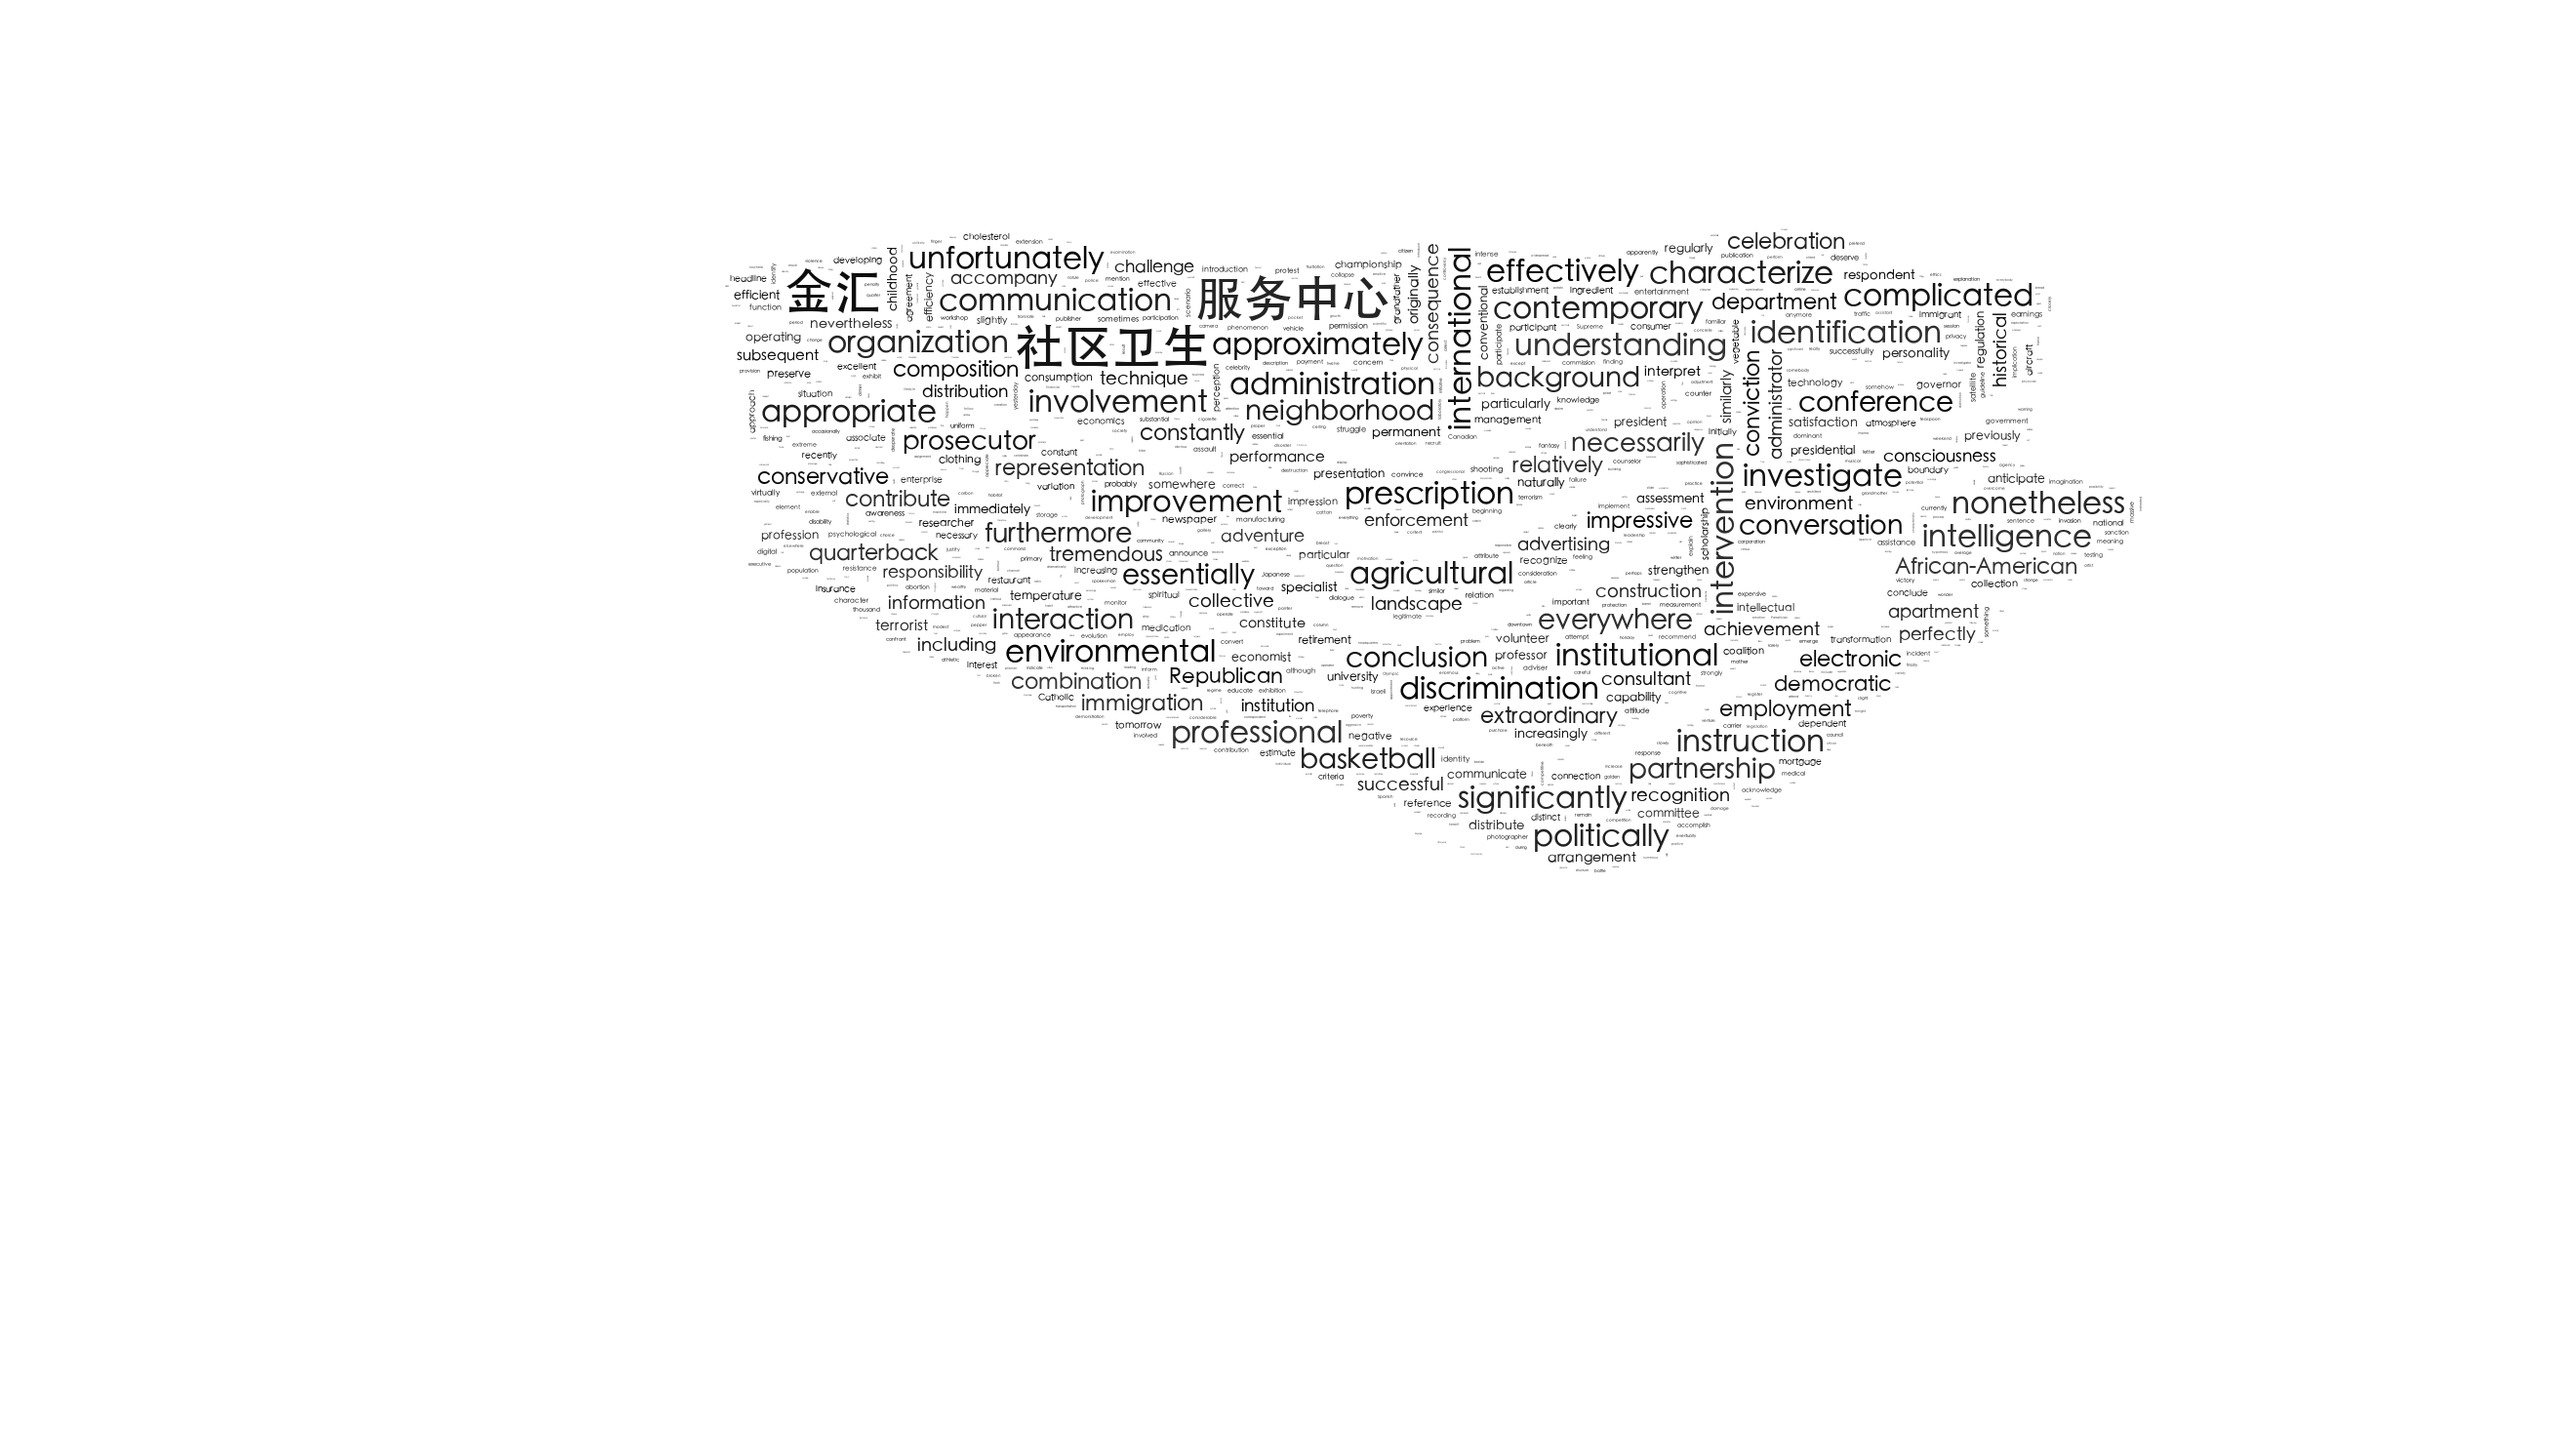
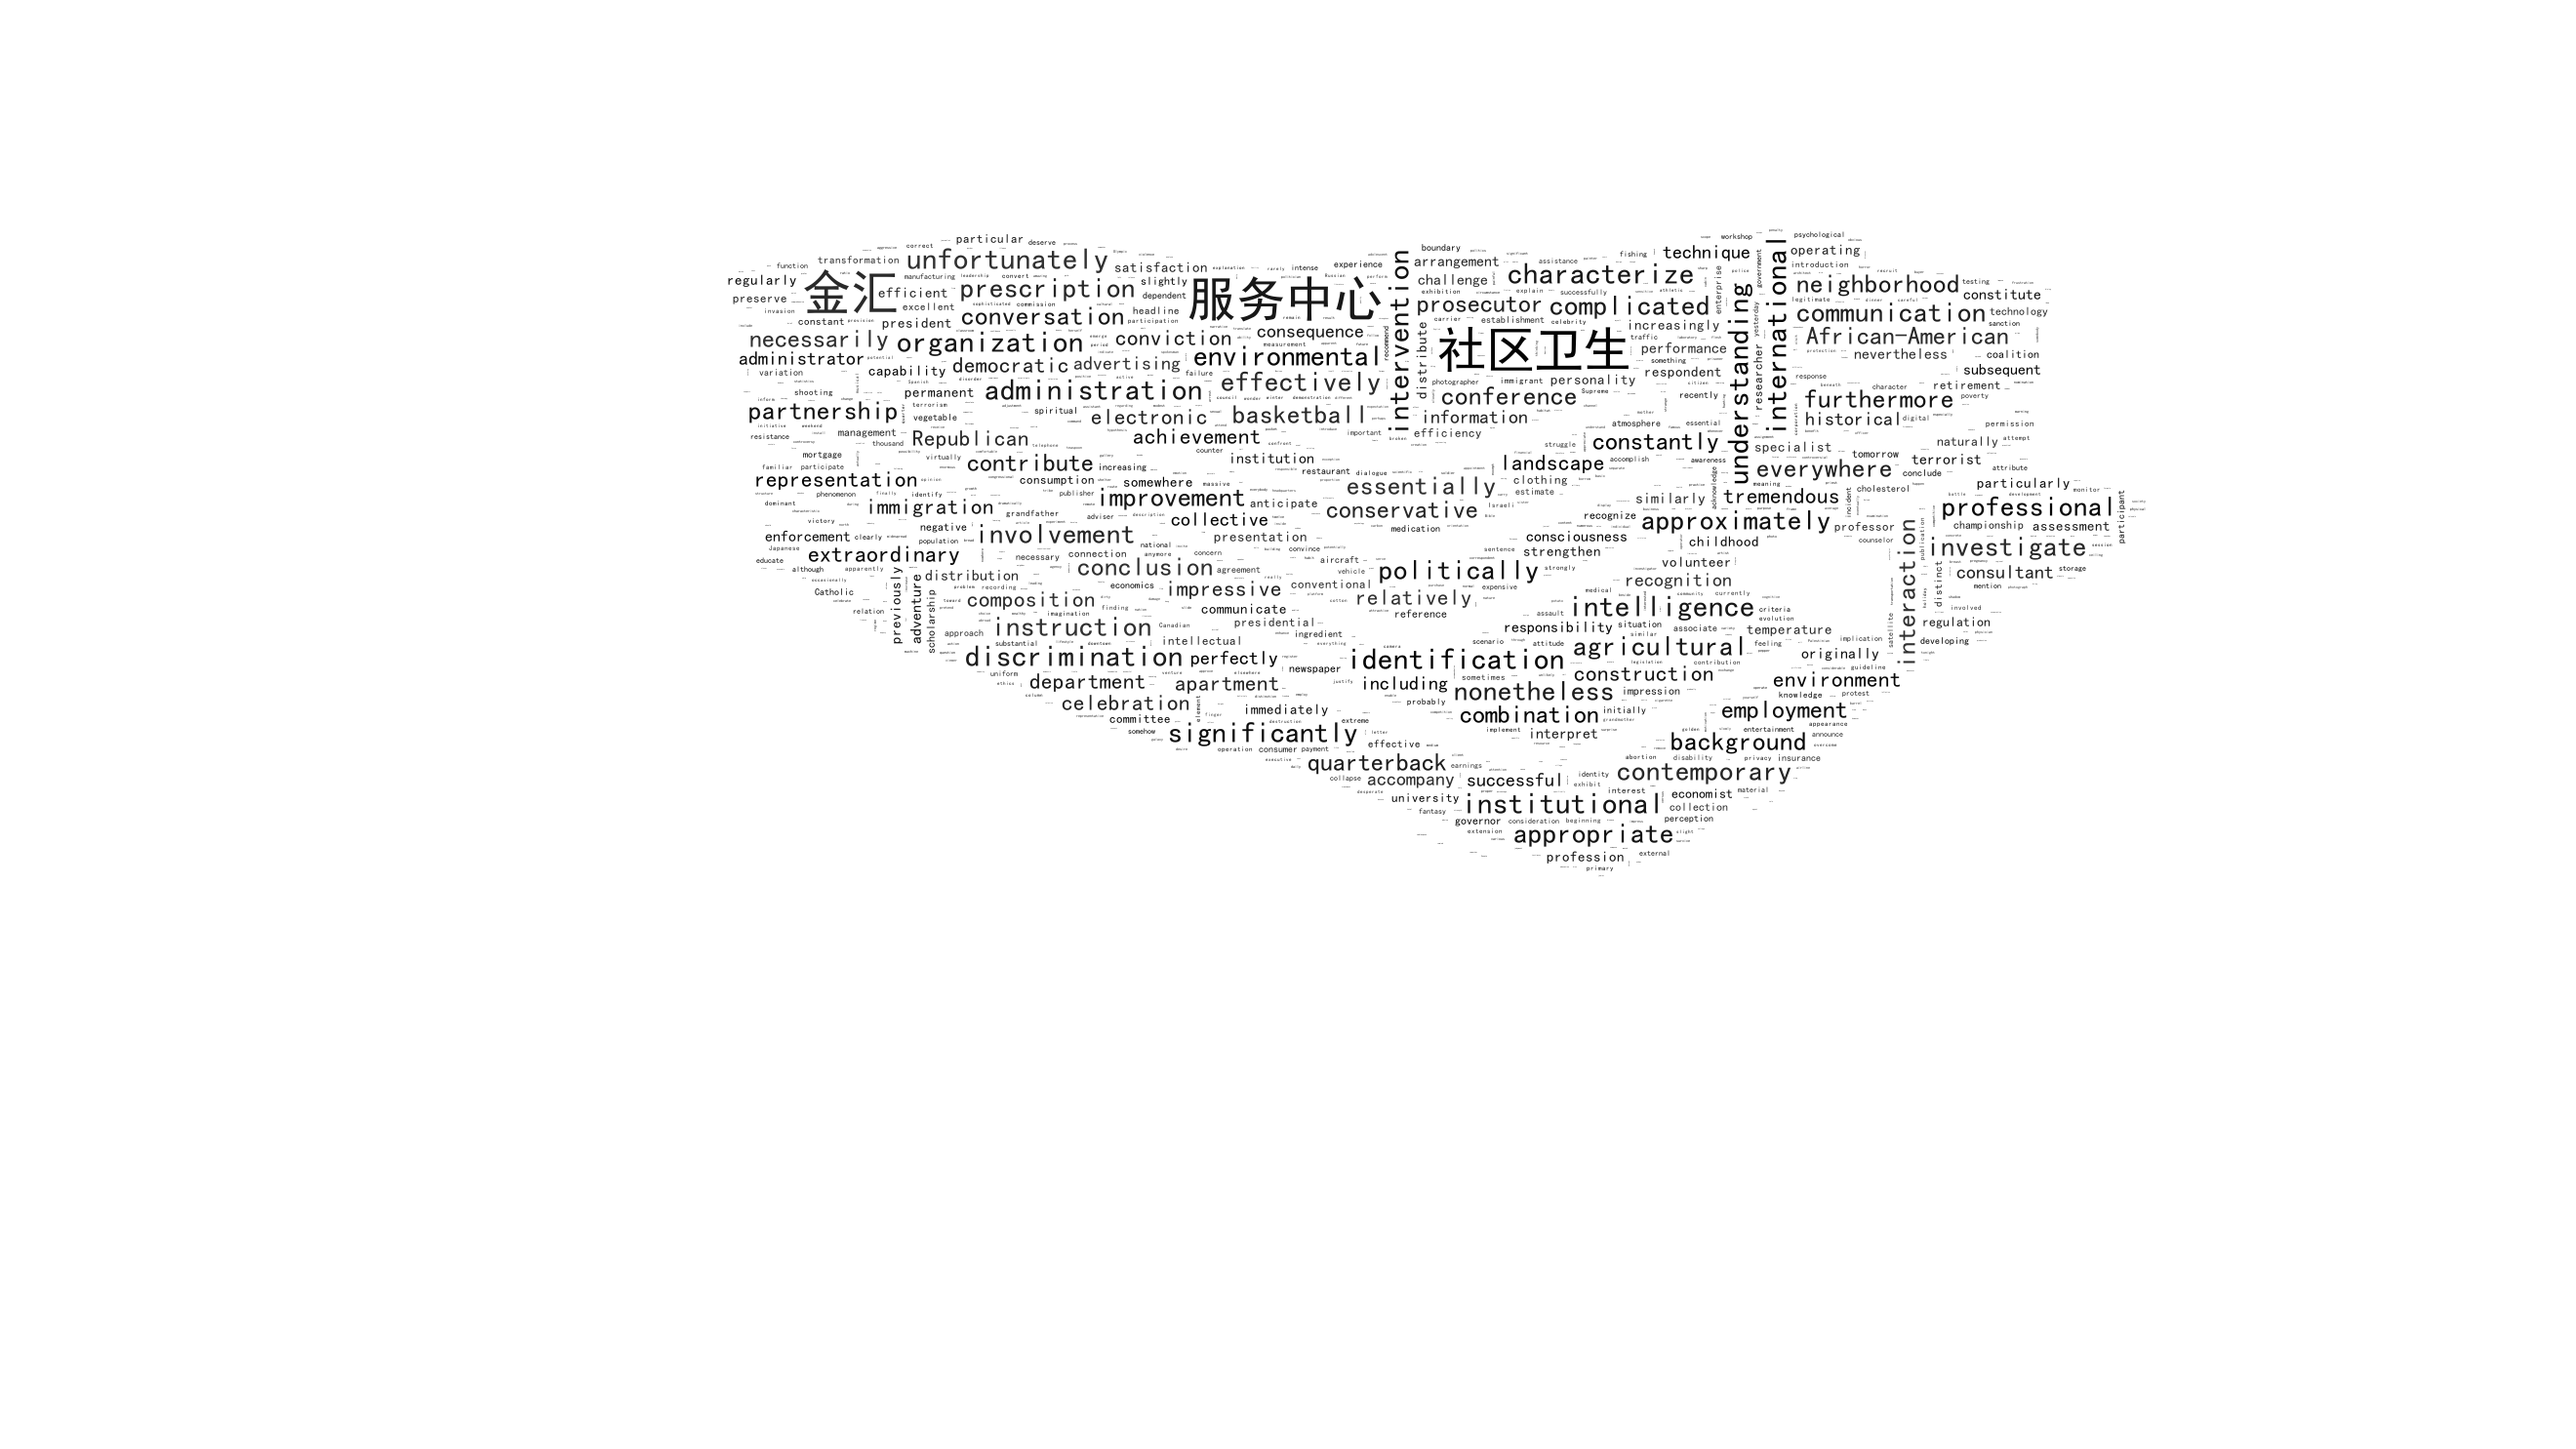
update

Changed region(s): [[0.2795, 0.1549, 0.8386, 0.6195]]

diff --git a/examples/a_new_hope.py b/examples/a_new_hope.py
@@ -12,6 +12,7 @@ from os import path
 import matplotlib.pyplot as plt
 import os
 import random
+import platform
 
 from wordcloud import WordCloud, STOPWORDS, ImageColorGenerator
 
@@ -24,12 +25,48 @@ def grey_color_func(word, font_size, position, orientation, random_state=None,
 # get data directory (using getcwd() is needed to support running example in generated IPython notebook)
 d = path.dirname(__file__) if "__file__" in locals() else os.getcwd()
 
+# 根据操作系统自动选择路径和字体
+def get_onedrive_path():
+    system = platform.system()
+    if system == "Windows":
+        return r"C:\Users\xushe\OneDrive\NAS云同步\Drive\社会工作\2025年07月05日短视频竞赛"
+    elif system == "Darwin":  # macOS
+        return r"/Users/shengyixu/Library/CloudStorage/OneDrive-Personal/NAS云同步/Drive/社会工作/2025年07月05日短视频竞赛"
+    else:  # Linux 或其他系统
+        return r"/home/xushe/OneDrive/NAS云同步/Drive/社会工作/2025年07月05日短视频竞赛"
+
+def get_font_path():
+    system = platform.system()
+    if system == "Windows":
+        return r"C:\Windows\Fonts\simhei.ttf"  # Windows中文字体
+    elif system == "Darwin":  # macOS
+        return r"/System/Library/Fonts/STHeiti Medium.ttc"  # macOS中文字体
+    else:  # Linux 或其他系统
+        return r"/usr/share/fonts/truetype/dejavu/DejaVuSans.ttf"  # Linux默认字体
+
+# 获取OneDrive路径和字体路径
+onedrive_path = get_onedrive_path()
+font_path = get_font_path()
+
+# 选择生成模式：'grey' 为灰度，'image' 为图片颜色，'both' 为两种都生成
+GENERATION_MODE = 'grey'  # 可以改为 'image' 或 'both'
+
+# 定义输入文件名
+MASK_FILENAME = "中企联合大厦简笔画1.png"
+COLOR_FILENAME = "中企联合大厦简笔画1.png"
+
+# 定义输出文件名（自动提取输入文件名作为前缀）
+def get_output_filename(prefix, suffix):
+    # 从mask文件名提取基础名称（去掉扩展名）
+    base_name = os.path.splitext(MASK_FILENAME)[0]
+    return f"{base_name}_{prefix}.png"
+
 # read the mask image taken from
 # http://www.stencilry.org/stencils/movies/star%20wars/storm-trooper.gif
-mask = np.array(Image.open("/Users/shengyixu/Library/CloudStorage/OneDrive-Personal/NAS云同步/Drive/社会工作/2025年07月05日短视频竞赛/金汇社区卫生服务中心2.png"))
+mask = np.array(Image.open(os.path.join(onedrive_path, MASK_FILENAME)))
 
 # 读取颜色图片（可以是彩色版本的mask图片）
-color_image = np.array(Image.open("/Users/shengyixu/Library/CloudStorage/OneDrive-Personal/NAS云同步/Drive/社会工作/2025年07月05日短视频竞赛/金汇社区卫生服务中心3.png"))
+color_image = np.array(Image.open(os.path.join(onedrive_path, COLOR_FILENAME)))
 
 # 导入词频数据
 from word_frequencies import word_frequencies
@@ -46,8 +83,8 @@ wc = WordCloud(
     margin=10,
     random_state=1,
     background_color='white',
-    font_path='/System/Library/Fonts/STHeiti Medium.ttc',  # 使用系统中文字体
-    max_font_size=50,         # 减小最大字体大小
+    font_path=font_path,  # 自动选择系统中文字体
+    max_font_size=30,         # 减小最大字体大小
     min_font_size=1,          # 设置最小字体大小
     # relative_scaling=0.1,     # 增加相对缩放，让词频差异更明显
     # width=800,                # 设置宽度
@@ -62,30 +99,61 @@ image_colors = ImageColorGenerator(color_image)
 
 # store default colored image
 default_colors = wc.to_array()
-# 显示三种不同的效果
-fig, axes = plt.subplots(1, 3, figsize=(15, 5))
-
-# 1. 默认颜色
-axes[0].set_title("Default colors")
-axes[0].imshow(default_colors, interpolation="bilinear")
-axes[0].axis("off")
-
-# 2. 灰度颜色
-axes[1].set_title("Grey colors")
-axes[1].imshow(wc.recolor(color_func=grey_color_func, random_state=3),
+# 根据生成模式选择显示和保存
+if GENERATION_MODE == 'grey':
+    # 只生成灰度版本
+    fig, axes = plt.subplots(1, 1, figsize=(8, 6))
+    axes.set_title("Grey colors")
+    axes.imshow(wc.recolor(color_func=grey_color_func, random_state=3),
                interpolation="bilinear")
-axes[1].axis("off")
+    axes.axis("off")
+    plt.tight_layout()
+    plt.show()
+    
+    # 保存灰度版本
+    grey_output = get_output_filename("grey", "png")
+    wc.recolor(color_func=grey_color_func, random_state=3).to_file(os.path.join(onedrive_path, grey_output))
+    
+elif GENERATION_MODE == 'image':
+    # 只生成图片颜色版本
+    fig, axes = plt.subplots(1, 1, figsize=(8, 6))
+    axes.set_title("Image colors")
+    axes.imshow(wc.recolor(color_func=image_colors), interpolation="bilinear")
+    axes.axis("off")
+    plt.tight_layout()
+    plt.show()
+    
+    # 保存图片颜色版本
+    image_output = get_output_filename("image_colors", "png")
+    wc.recolor(color_func=image_colors).to_file(os.path.join(onedrive_path, image_output))
+    
+elif GENERATION_MODE == 'both':
+    # 生成所有版本（原来的代码）
+    fig, axes = plt.subplots(1, 3, figsize=(15, 5))
 
-# 保存黑白的版本
-wc.to_file("a_new_hope_black_white.png")
+    # 1. 默认颜色
+    axes[0].set_title("Default colors")
+    axes[0].imshow(default_colors, interpolation="bilinear")
+    axes[0].axis("off")
 
-# 3. 从图片获取的颜色
-axes[2].set_title("Image colors")
-axes[2].imshow(wc.recolor(color_func=image_colors), interpolation="bilinear")
-axes[2].axis("off")
+    # 2. 灰度颜色
+    axes[1].set_title("Grey colors")
+    axes[1].imshow(wc.recolor(color_func=grey_color_func, random_state=3),
+                   interpolation="bilinear")
+    axes[1].axis("off")
 
-plt.tight_layout()
-plt.show()
+    # 保存黑白的版本
+    grey_output = get_output_filename("grey", "png")
+    wc.recolor(color_func=grey_color_func, random_state=3).to_file(os.path.join(onedrive_path, grey_output))
 
-# 保存两个版本
-wc.recolor(color_func=image_colors).to_file("a_new_hope_image_colors.png")
+    # 3. 从图片获取的颜色
+    axes[2].set_title("Image colors")
+    axes[2].imshow(wc.recolor(color_func=image_colors), interpolation="bilinear")
+    axes[2].axis("off")
+
+    plt.tight_layout()
+    plt.show()
+
+    # 保存图片颜色版本
+    image_output = get_output_filename("image_colors", "png")
+    wc.recolor(color_func=image_colors).to_file(os.path.join(onedrive_path, image_output))
